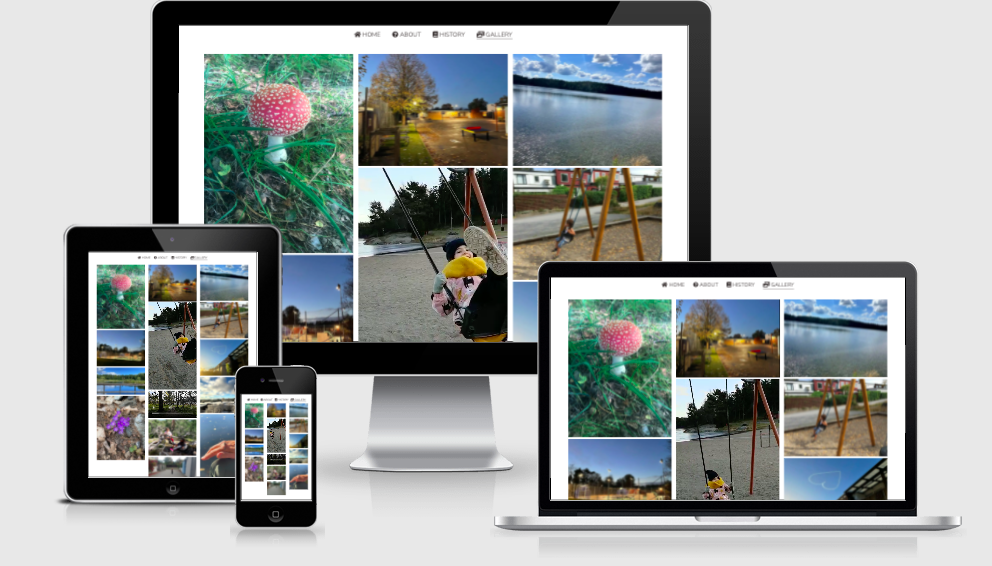
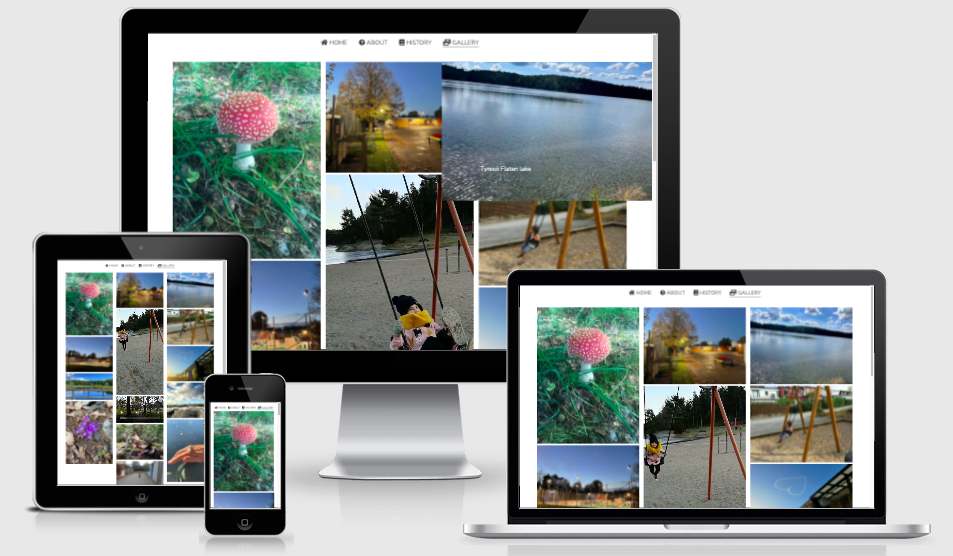
Add to credits and change gallery responsive image in README after updated design

diff --git a/README.md b/README.md
@@ -149,3 +149,5 @@ The live link can be found [here](https://jossansik.github.io/Portfolio-project1
 The code for the gallery page is in large parts derived from the Code Institute course materials.
 
 I have based the scaling hover effect on the gallery images on the following [code](https://codepen.io/ran0904/pen/bNpLvX).
+
+The responsive example images are generated by [this site](http://ami.responsivedesign.is/).
